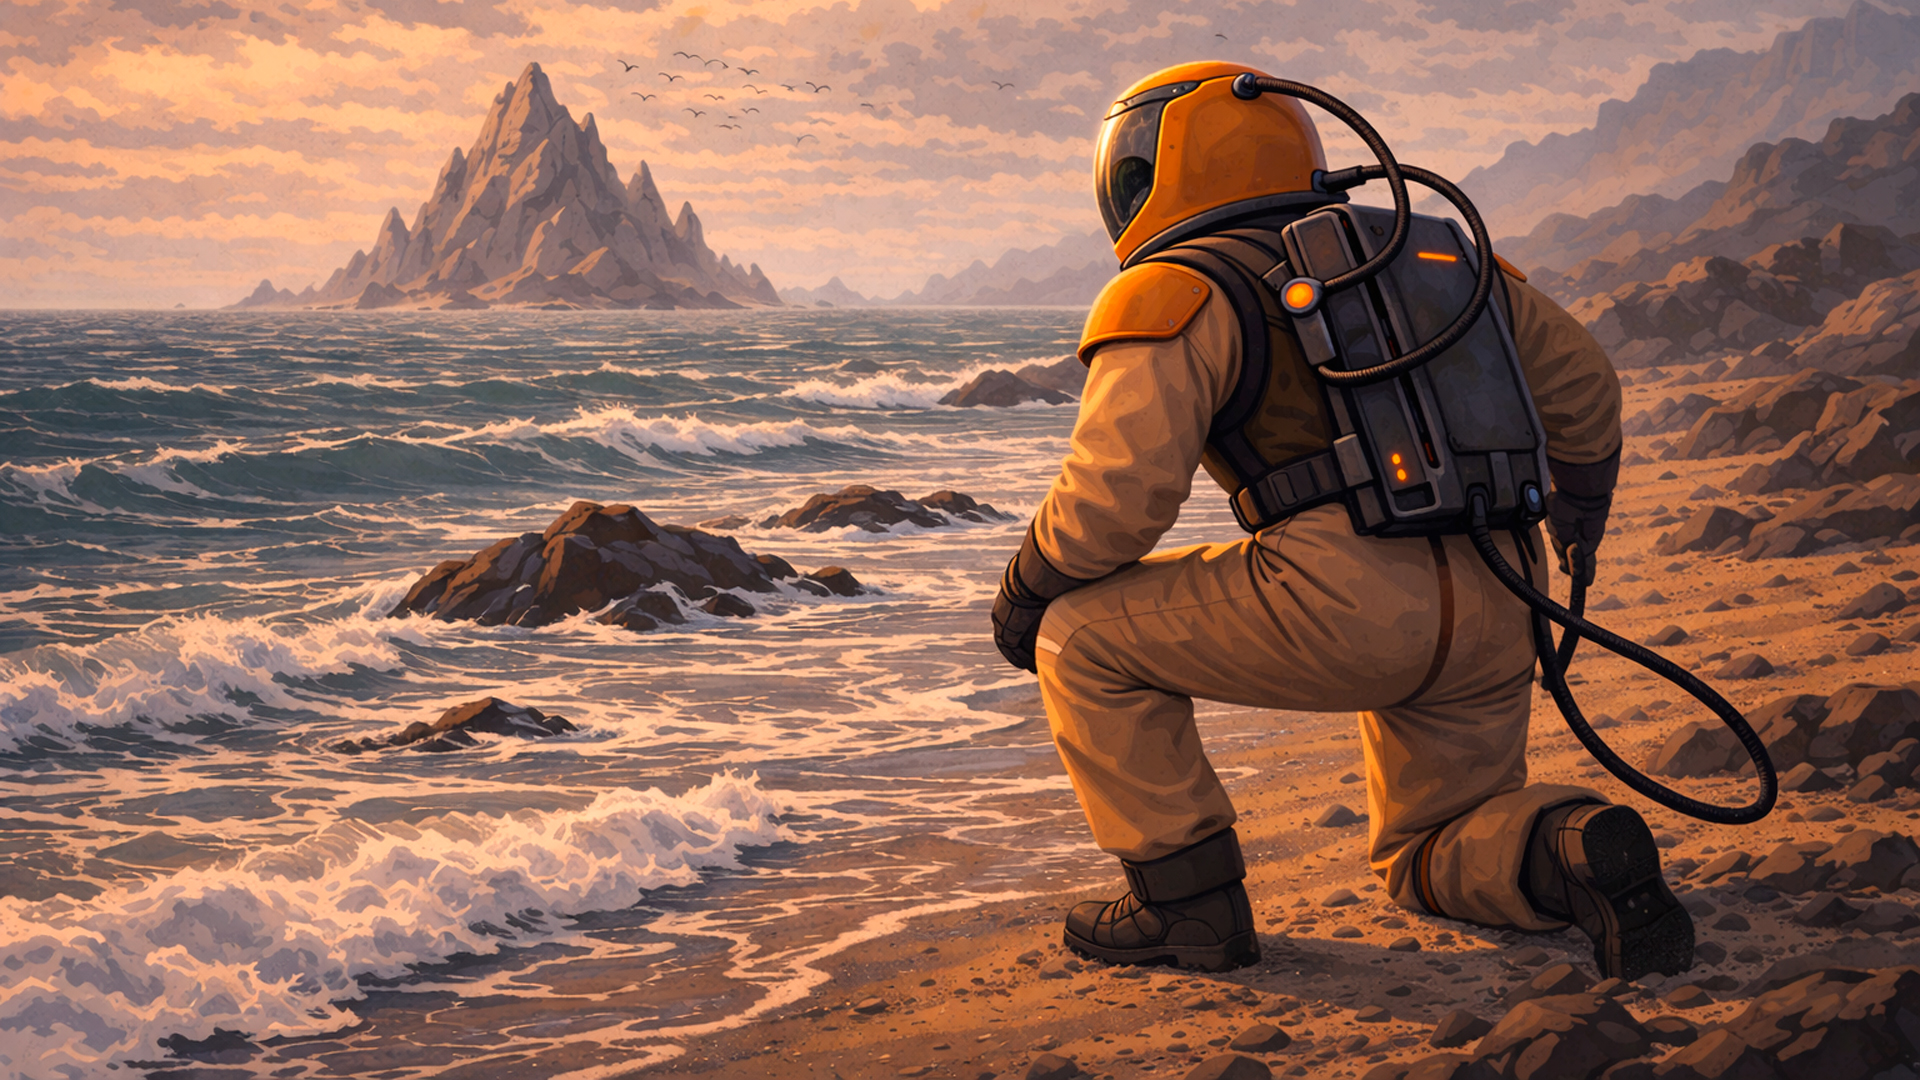
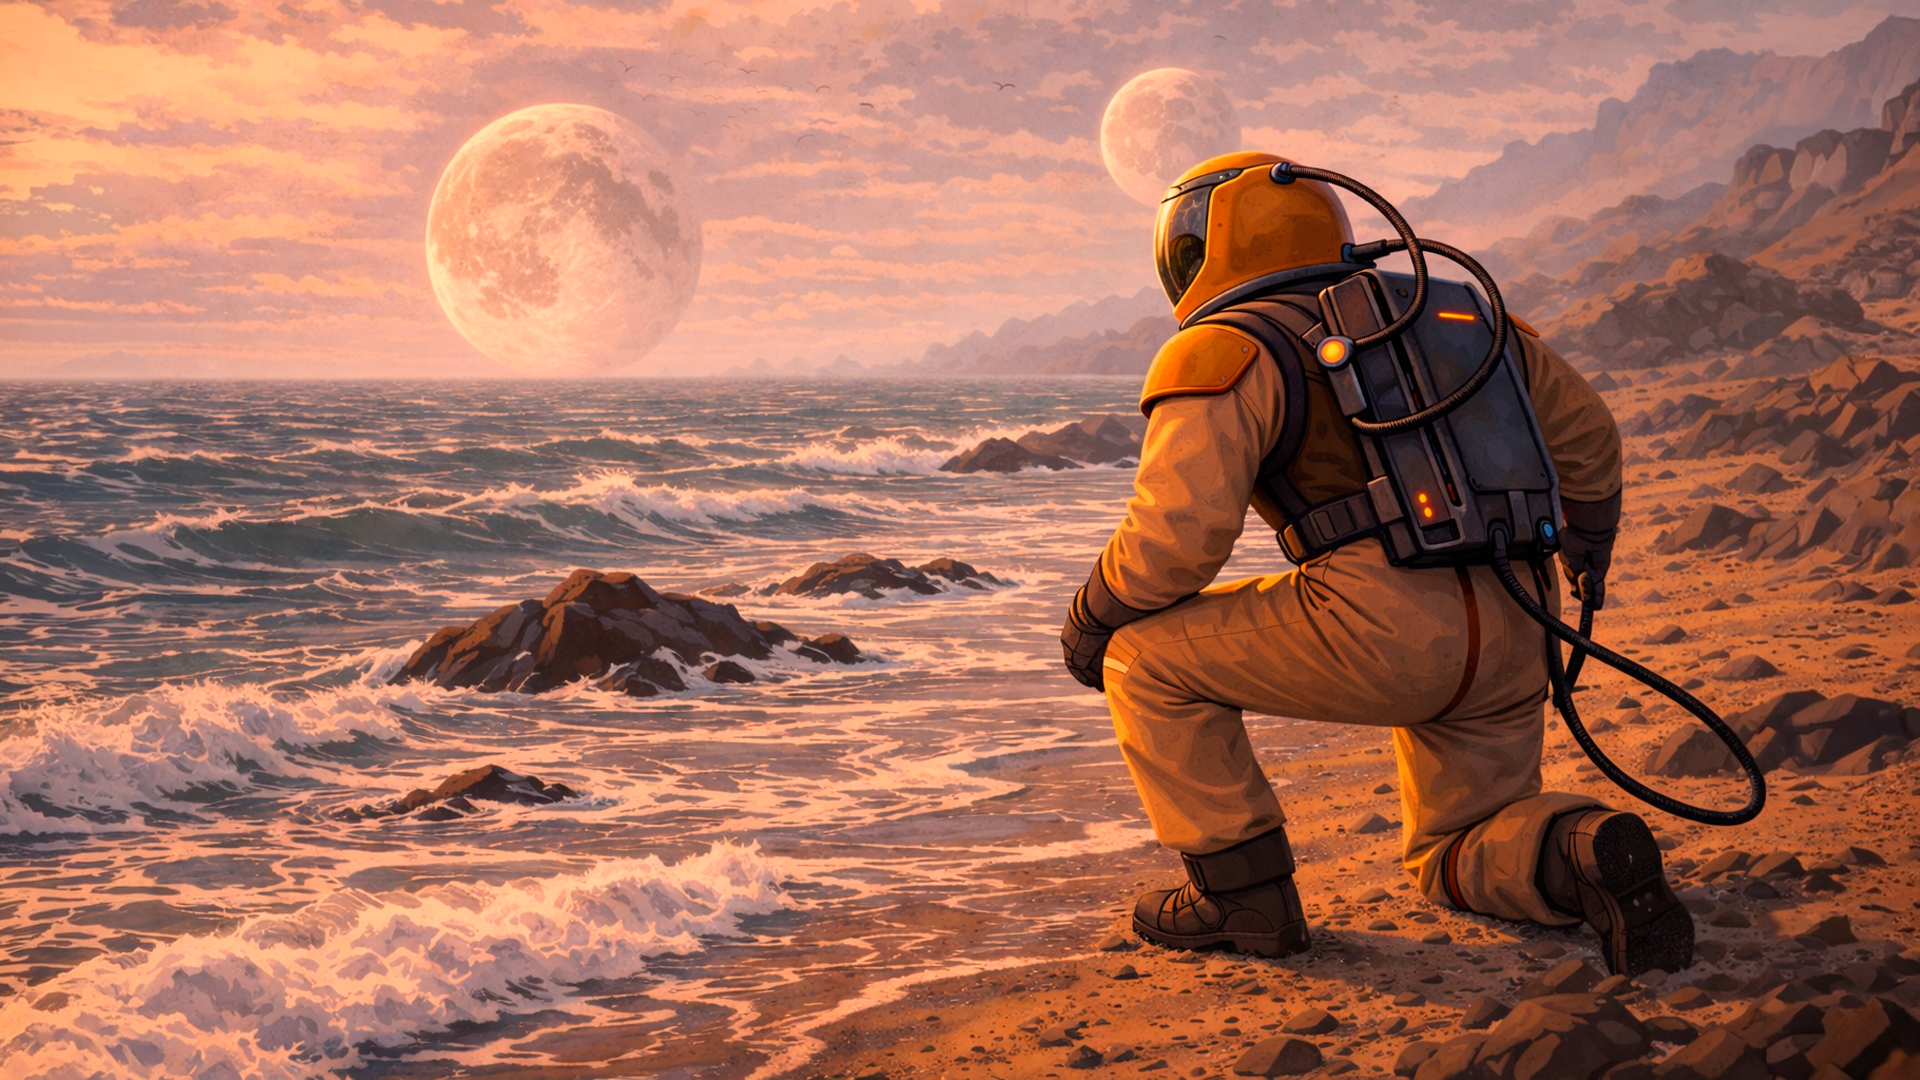
fix-assets

diff --git a/src/shared/constants/inventoryStore.ts b/src/shared/constants/inventoryStore.ts
@@ -42,7 +42,7 @@ export const INVENTORY_STORE_CONFIG = [
         price: 600,
         organs: [
             { id: 1, name: 'Зуб щитомордника', count: 4 },
-            { id: 2, name: 'Шкура голема', count: 3 }
+            { id: 2, name: 'Шкура литора', count: 3 }
         ],
         hp: 30,
         isPaid: false,
@@ -56,7 +56,7 @@ export const INVENTORY_STORE_CONFIG = [
         price: 800,
         organs: [
             { id: 1, name: 'Зуб щитомордника', count: 2 },
-            { id: 2, name: 'Шкура голема', count: 6 },
+            { id: 2, name: 'Шкура литора', count: 6 },
             { id: 3, name: 'Пластина от ИС-2', count: 1 },
         ],
         hp: 40,
@@ -71,7 +71,7 @@ export const INVENTORY_STORE_CONFIG = [
         price: 1000,
         organs: [
             { id: 1, name: 'Зуб щитомордника', count: 6 },
-            { id: 2, name: 'Шкура голема', count: 8 }
+            { id: 2, name: 'Шкура литора', count: 8 }
         ],
         hp: 50,
         isPaid: false,

diff --git a/src/pages/main-page/main-page.tsx b/src/pages/main-page/main-page.tsx
@@ -1,4 +1,7 @@
-import bgUrl from '/ui/bg.png'
+import bgBefore from '/main/bg-before.jpg'
+import bgAfter from '/main/bg-after.png'
+import bgBoy from '/main/bg-boy.png'
+import bgBoyLight from '/main/bg-boy-light.png'
 import styles from './styles.module.css'
 import { UserInfo } from '@/shared/components/user-info/user-info'
 import { Experience } from '@/shared/components/experience/experience'
@@ -28,7 +31,12 @@ export const MainPage = () => {
       <div className={styles['main-page__info']}>
         {isAuth ? <AuthControlPanel /> : <ControlPanel />}
       </div>
-      <img src={bgUrl} className={styles['main-page__bg']} />
+      <div className={styles['main-page__boy']}>
+        <img src={bgBoy} className={styles['main-page__bg-boy']} />
+        <img src={bgBoyLight} className={styles['main-page__bg-boy-light']} />
+      </div>
+      <img src={bgAfter} className={styles['main-page__bg-after']} />
+      <img src={bgBefore} className={styles['main-page__bg-before']} />
     </div>
   )
 }

diff --git a/src/shared/slices/progress-slices.ts b/src/shared/slices/progress-slices.ts
@@ -81,7 +81,7 @@ const initialState: ProgressState = {
   userOrgans: {
     0: { id: 0, name: 'Болт от ПС-91', count: 0 },
     1: { id: 1, name: 'Зуб щитомордника', count: 0 },
-    2: { id: 2, name: 'Шкура голема', count: 0 },
+    2: { id: 2, name: 'Шкура литора', count: 0 },
     3: { id: 3, name: 'Пластина от ИС-2', count: 0 },
   },
 }
@@ -134,7 +134,7 @@ export const progressSlice = createSlice({
       state.userOrgans = {
         0: { id: 0, name: 'Болт от ПС-91', count: 0 },
         1: { id: 1, name: 'Зуб щитомордника', count: 0 },
-        2: { id: 2, name: 'Шкура голема', count: 0 },
+        2: { id: 2, name: 'Шкура литора', count: 0 },
         3: { id: 3, name: 'Пластина от ИС-2', count: 0 },
       }
     },

diff --git a/src/pages/main-page/styles.module.css b/src/pages/main-page/styles.module.css
@@ -1,5 +1,15 @@
 .main-page {
-  & .main-page__bg {
+  & .main-page__bg-before {
+    object-fit: cover;
+    position: fixed;
+    left: 0;
+    top: 0;
+    height: 100%;
+    width: 100%;
+    z-index: -3;
+  }
+
+  & .main-page__bg-after {
     object-fit: cover;
     position: fixed;
     left: 0;
@@ -28,5 +38,36 @@
     left: 0;
     bottom: 0;
     width: 100%;
+  }
+
+  .main-page__boy {
+    position: absolute;
+    left: 6%;
+    bottom: 16%;
+    width: auto;
+    height: 20%;
+    z-index: -2;
+  }
+
+  .main-page__bg-boy {
+    height: 100%;
+  }
+
+  .main-page__bg-boy-light {
+    position: absolute;
+    left: 0;
+    top: 0;
+    height: 100%;
+    animation: glow 2s infinite;
+  }
+}
+
+@keyframes glow {
+  0%,
+  100% {
+    opacity: 1;
+  }
+  50% {
+    opacity: 0;
   }
 }

diff --git a/src/shared/components/user-treasures/styles.module.css b/src/shared/components/user-treasures/styles.module.css
@@ -105,12 +105,24 @@
 
 .user-treasures__info-item_0 {
   &::before {
-    background-image: url('tavern/treasures/1.png');
+    background-image: url('tavern/treasures/0.png');
   }
 }
 
 .user-treasures__info-item_1 {
   &::before {
+    background-image: url('tavern/treasures/1.png');
+  }
+}
+
+.user-treasures__info-item_2 {
+  &::before {
     background-image: url('tavern/treasures/2.png');
+  }
+}
+
+.user-treasures__info-item_3 {
+  &::before {
+    background-image: url('tavern/treasures/3.png');
   }
 }

diff --git a/src/shared/services/sdk/yandexSdk.ts b/src/shared/services/sdk/yandexSdk.ts
@@ -115,7 +115,7 @@ export default class YandexSDK extends SDK {
           userOrgans: {
             0: { id: 0, name: 'Болт от ПС-91', count: 1000 },
             1: { id: 1, name: 'Зуб щитомордника', count: 1000 },
-            2: { id: 2, name: 'Шкура голема', count: 1000 },
+            2: { id: 2, name: 'Шкура литора', count: 1000 },
             3: { id: 3, name: 'Пластина от ИС-2', count: 1000 },
           }
         }

diff --git a/src/pages/tavern-page/styles.module.css b/src/pages/tavern-page/styles.module.css
@@ -169,6 +169,12 @@
   }
 }
 
+.barman-text-item_0 {
+  &::before {
+    background-image: url('tavern/treasures/0.png');
+  }
+}
+
 .barman-text-item_1 {
   &::before {
     background-image: url('tavern/treasures/1.png');
@@ -178,6 +184,12 @@
 .barman-text-item_2 {
   &::before {
     background-image: url('tavern/treasures/2.png');
+  }
+}
+
+.barman-text-item_3 {
+  &::before {
+    background-image: url('tavern/treasures/3.png');
   }
 }
 

diff --git a/src/shared/components/modal-comps/modal.module.css b/src/shared/components/modal-comps/modal.module.css
@@ -51,11 +51,17 @@
     background-repeat: no-repeat;
   }
 
+  i[data-icon='organ-0'] {
+    background-image: url('tavern/treasures/0.png');
+  }
   i[data-icon='organ-1'] {
     background-image: url('tavern/treasures/1.png');
   }
   i[data-icon='organ-2'] {
     background-image: url('tavern/treasures/2.png');
+  }
+  i[data-icon='organ-3'] {
+    background-image: url('tavern/treasures/3.png');
   }
 }
 

diff --git a/src/shared/components/level-map/item/styles.module.css b/src/shared/components/level-map/item/styles.module.css
@@ -88,11 +88,6 @@
     background-image: url(/game/enemy/enemy-3-default.webp);
   }
 }
-.item_4 {
-  &::after {
-    background-image: url(/game/enemy/enemy-2-default.webp);
-  }
-}
 
 .item_101 {
   b {
